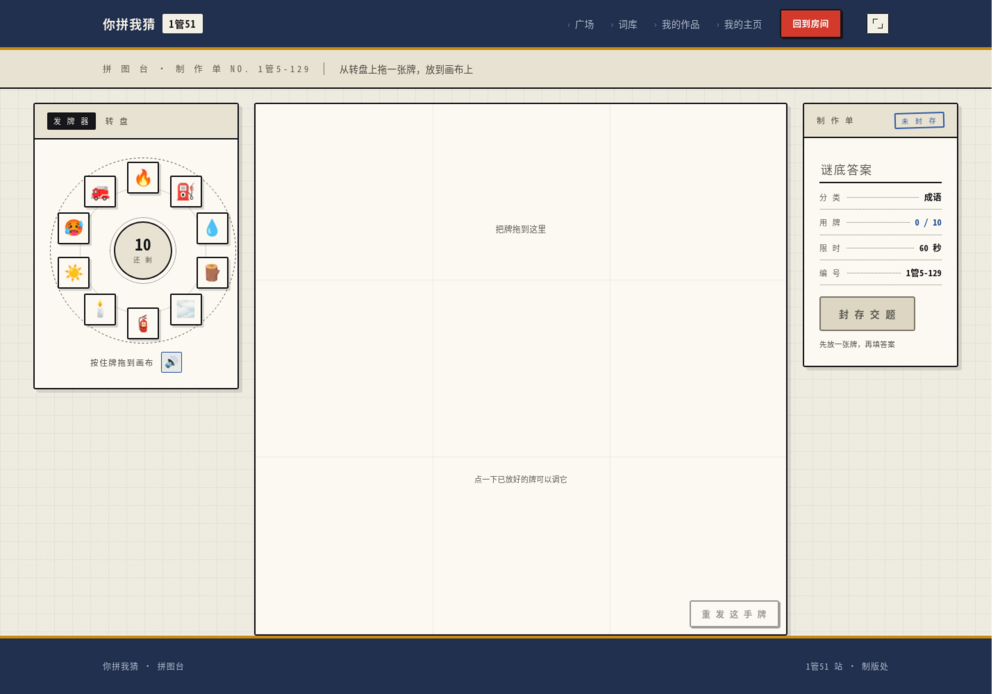
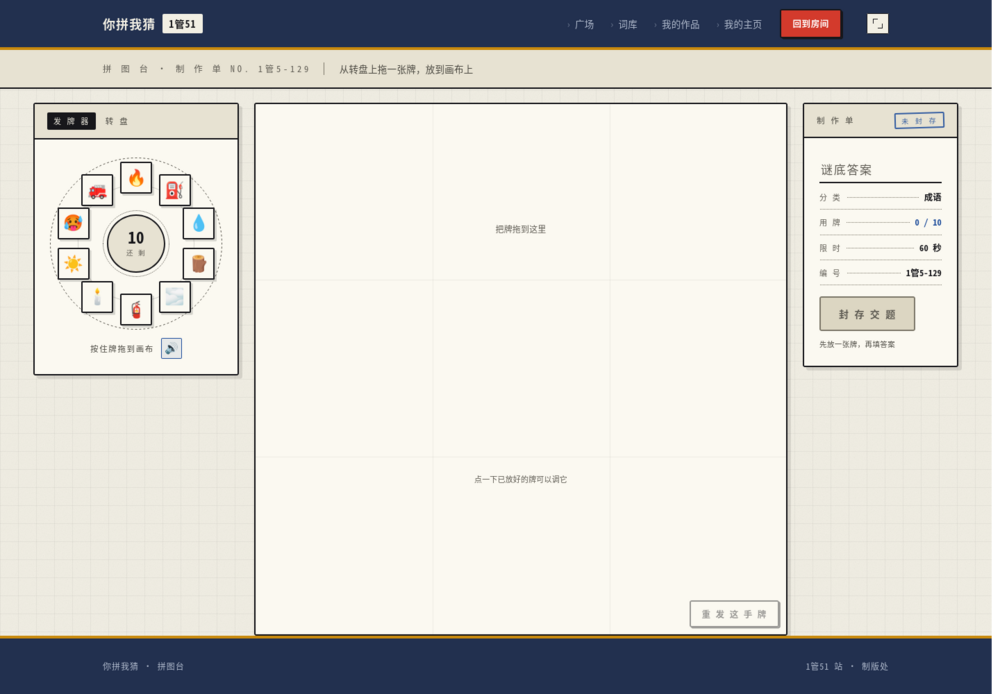
评委第 6 轮 7/10；修窄窗画布（1024 下 364 → 512px，占屏宽 36% → 50%）
## 评委这次的评价（kimi-k3 真看图，7/10）

> **气质**：国营窗口单位的单据美学 × 文具店的纸品陈列 × 新粗野主义的硬阴影按钮 ——
> 「一家什么事都要盖章归档的虚构机构」，从落地页到 404 没有出戏过。
> **最脆弱处**：整套风格活在「单据外壳」里，而游戏真正发生的那个地方 —— 画布 ——
> 恰恰不是纸，也不可能是纸。于是设计语言在最该说话的时刻失语：
> **全站最讲究的是错误页，最毛坯的是玩法页。**

它给到 9 分的路径共 6 条 +2.1，并说：
> **第 1 条（把画布做成主角）不做的话，第 2–6 条全做也只是 8 分封顶。**

## 本轮做了第 1 条里最实的一段

**窄窗画布被挤扁**（评委原话：「1024 下画布只剩屏宽约 1/3 的小方块，
而左侧转盘反而变大了。一个『拖、转、缩放』的游戏，在最窄窗口里工作台比工具盒还小」）。

加 1200 / 1050 两档轨道收缩：

    1920x1080  848x848  占屏宽 44%  占屏高 78%   轨 296
    1440x900   668x668          46%        74%   轨 296
    1280x800   568x568          44%        71%   轨 296
    1024x768   **512x512**      **50%**    **67%**  轨 **200**
                                          （改前 364 / 36% / 47%）

## 过程中两件事

**① 画布不变量当场抓到我的回归。**
轨道收到 200px 后 `.sheet` 横向裁切 84px —— 因为 `.wheel{width:min(268px,74vw)}`
里 `74vw` 在 1024 下是 758px，转盘本身不跟着轨道收。我的 `--R` 只缩了牌位半径，
没缩转盘。改成 `min(268px,100%)` 后通过。

**② 评委有一条误报，而误报的原因是我的对比图。**
它说「纸纹只在 1024 宽度出现，1024 像另一个网站」。
实测八个宽度（1920→1000）背景像素与方差**完全相同**（均为 srgba(240,237,227)、方差 9.62）。
真实原因是 `canvas-full.png` 里我把三档截图各自 `-resize 1000x` 后堆叠，
**1024 那张被放大了**，于是纸纹和元素都显得更大。
已改为同像素密度、不缩放。

> 教训：给评委看的图本身不能有尺度失真 —— 否则它会如实报告它看到的，
> 而它看到的不是产品。

Changed region(s): [[0.031, 0.2118, 0.248, 0.5749]]

diff --git a/app/compose.html b/app/compose.html
@@ -41,7 +41,10 @@
 
 /* ---------- 转盘（静止）---------- */
 .wheel-box{text-align:center}
-.wheel{position:relative;width:min(268px,74vw);aspect-ratio:1;margin:4px auto 0}
+.wheel{position:relative;width:min(268px,100%);aspect-ratio:1;margin:4px auto 0}
+/* ⚠ 73vw 不行：轨道收窄时转盘不会跟着收，实测 200px 轨里 scrollWidth 280（溢出 84px）。
+   100% 让转盘跟着轨道的**内容宽**走；牌位半径 --R 由 JS 按实际宽度算（见 syncSpokeRadius），
+   所以转盘缩小时整圈等比缩小、不会溢出。 */
 .wheel .ring{position:absolute;inset:0;border:1.5px dashed var(--ink-3);border-radius:50%}
 .wheel .ring2{position:absolute;inset:16%;border:1px solid rgba(23,23,27,.16);border-radius:50%}
 
@@ -197,6 +200,18 @@ main>*{width:100%}
 .od b.blue{color:var(--blue)}
 
 /* ⚠ 必须排在所有基础规则之后：媒体查询不提升优先级，同权重下靠后的赢。 */
+
+/* 窄窗（901–1200）让两条轨道自己收缩，把宽度让给画布。
+   评委原话：「1024 下画布被挤到只剩屏宽约 1/3 的小方块，而左侧转盘反而变大了。
+   一个『拖、转、缩放』的游戏，在最窄窗口里工作台比工具盒还小，优先级完全颠倒。」
+   转盘的牌位半径 --R 是 JS 按实际宽度算的，所以轨道收窄时转盘会等比缩小、不会溢出。 */
+@media(max-width:1200px){
+  .bench{grid-template-columns:minmax(0,232px) minmax(0,1fr) minmax(0,196px);gap:14px}
+}
+@media(max-width:1050px){
+  .bench{grid-template-columns:minmax(0,200px) minmax(0,1fr) minmax(0,180px);gap:12px}
+  .sheet-bd{padding:10px 12px}
+}
 @media(max-width:900px){
   html,body{height:auto}
   body{display:block;overflow:auto}

diff --git a/tools/delivery_audit.py b/tools/delivery_audit.py
@@ -49,13 +49,15 @@ MAP = {
     "full/index-full.png": "index.html", "full/plaza-full.png": "plaza.html",
     "full/plaza-mobile.png": "plaza.html", "full/compose-mobile.png": "compose.html",
     "full/guess-mobile.png": "guess.html",
+    "full/works-full.png": "works.html",
+    "full/works-mobile.png": "works.html",
     "issues.png": "issues.html",
     "canvas-full.png": "compose.html",   # 画布改动：三档视口对比
     "routemap.png": "404.html",           # 站台导向图特写
     # 元素特写（定点评审用的分析图），来源页见右
-    "el-1-bind.png": "works.html", "el-2-footer-login.png": "login.html",
+"el-2-footer-login.png": "login.html",
     "el-3-footer-guess.png": "guess.html",
-    "el-all.png": "works.html",
+
 }
 stale, missing = [], []
 for img, src in MAP.items():
